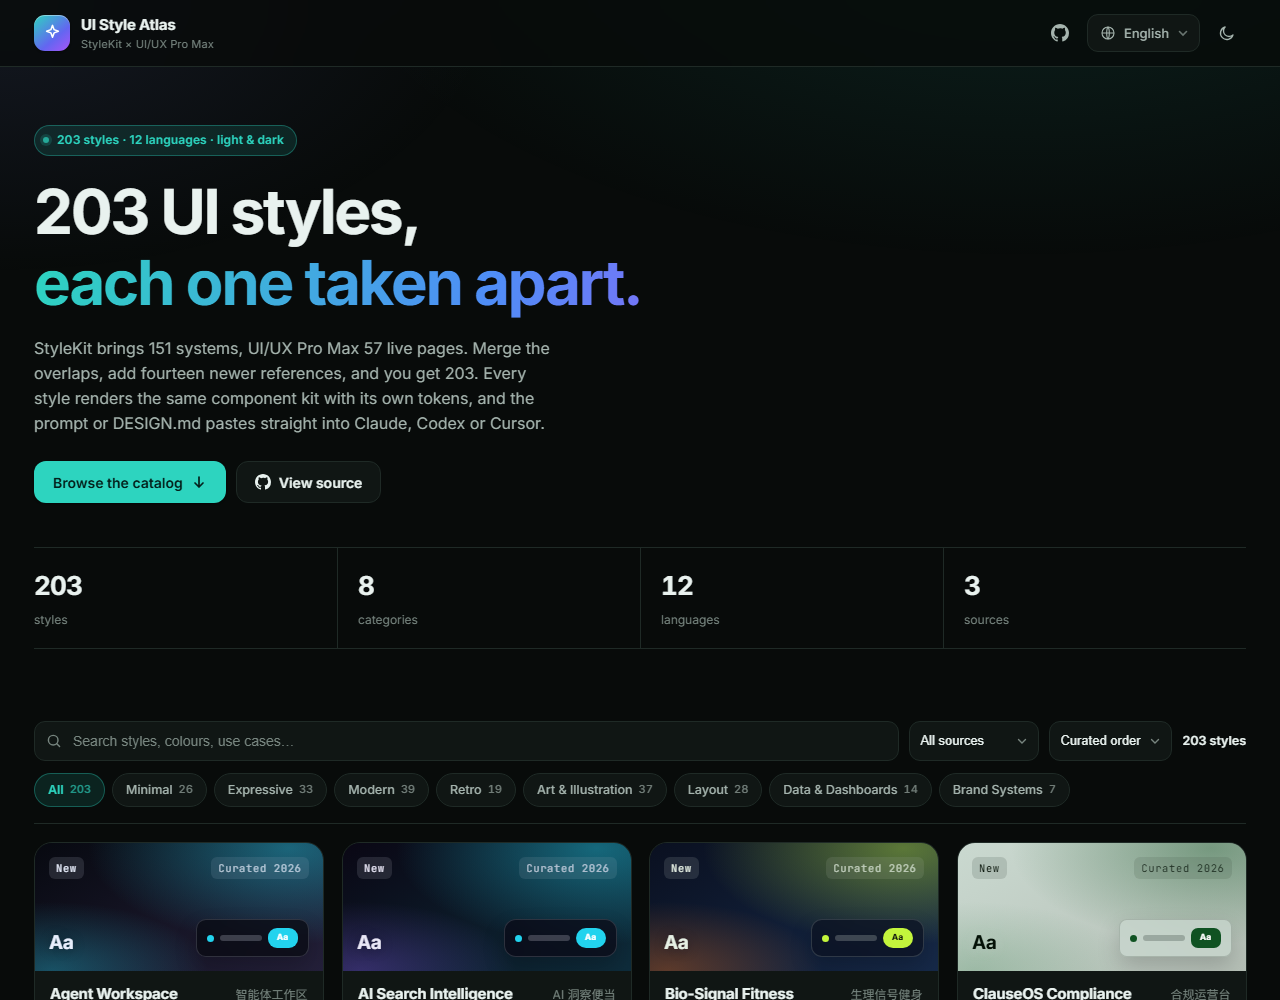
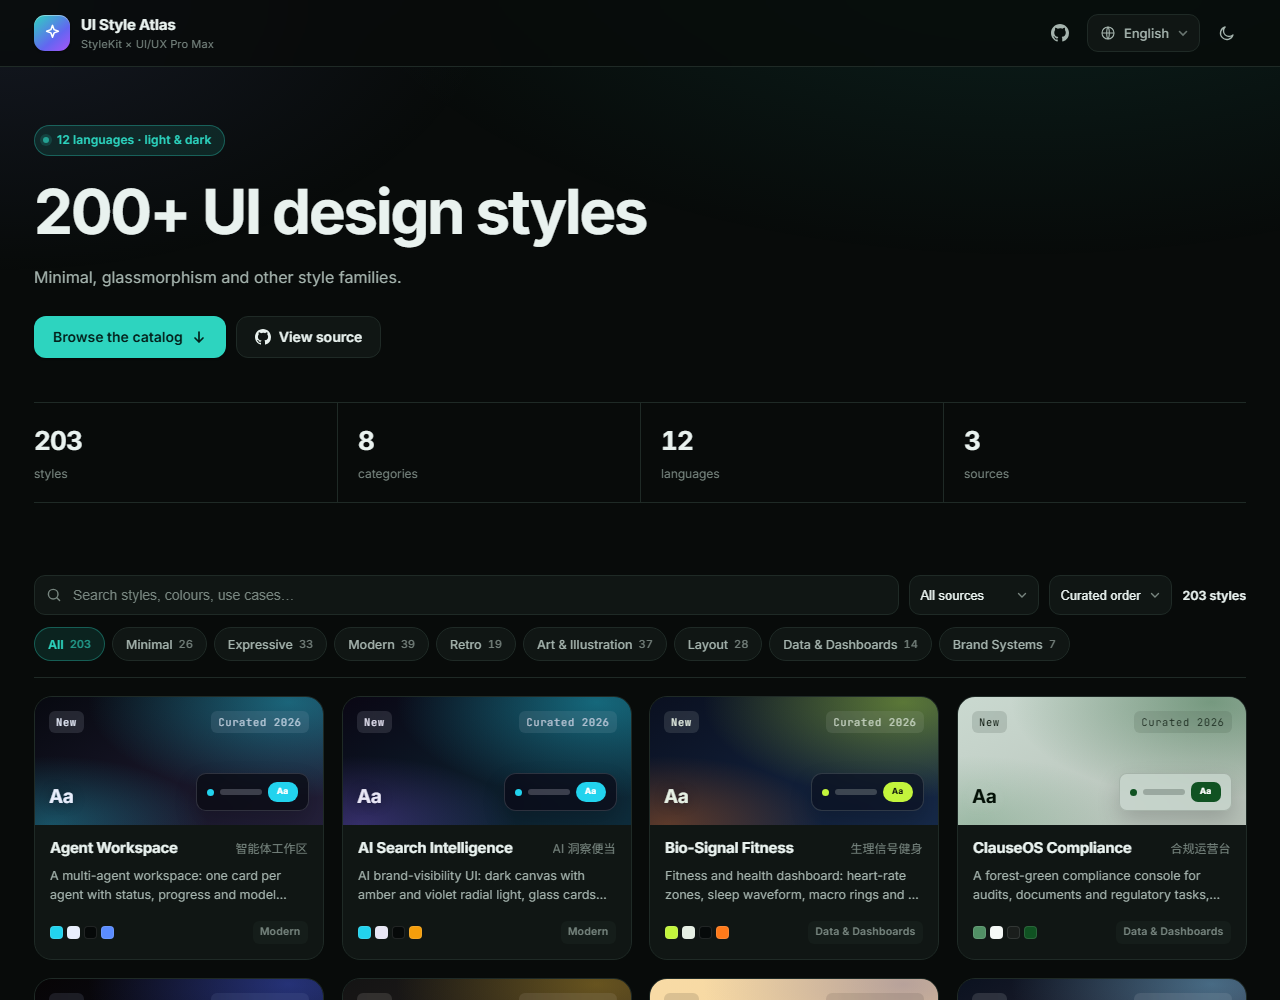
copy: 首屏换成一句话
- 标题 200+ UI 设计风格展示，导语 涵盖极简、玻璃拟态等多种类型的样式
- 删掉来源数字、令牌/提示词功能罗列与第二行渐变大字
- 顶部药丸去掉重复的 203 计数，只留 12 语言与明暗主题
- 12 种语言同步，移除 heroTitle2 键；README 首页截图重拍

diff --git a/assets/i18n.js b/assets/i18n.js
@@ -25,10 +25,9 @@
     themeLight: 'Light',
     themeDark: 'Dark',
     language: 'Language',
-    heroKicker: '203 styles · 12 languages · light & dark',
-    heroTitle1: '203 UI styles,',
-    heroTitle2: 'each one taken apart.',
-    heroLead: 'StyleKit brings 151 systems, UI/UX Pro Max 57 live pages. Merge the overlaps, add fourteen newer references, and you get 203. Every style renders the same component kit with its own tokens, and the prompt or DESIGN.md pastes straight into Claude, Codex or Cursor.',
+    heroKicker: '12 languages · light & dark',
+    heroTitle1: '200+ UI design styles',
+    heroLead: 'Minimal, glassmorphism and other style families.',
     ctaBrowse: 'Browse the catalog',
     ctaGithub: 'View source',
     statStyles: 'styles',
@@ -171,10 +170,9 @@
       themeLight: '白天',
       themeDark: '暗黑',
       language: '语言',
-      heroKicker: '203 套风格 · 12 种语言 · 明暗双主题',
-      heroTitle1: '203 套 UI 风格，',
-      heroTitle2: '配色、圆角、动效全摊开。',
-      heroLead: 'StyleKit 出了 151 套，UI/UX Pro Max 有 57 个现场页面。重名的合掉，再补 14 套新参考，一共 203 套。每套都用自己的令牌渲染同一组组件，提示词和 DESIGN.md 可以直接复制给 Claude、Codex 或 Cursor。',
+      heroKicker: '12 种语言 · 明暗双主题',
+      heroTitle1: '200+ UI 设计风格展示',
+      heroLead: '涵盖极简、玻璃拟态等多种类型的样式。',
       ctaBrowse: '浏览风格库',
       ctaGithub: '查看源码',
       statStyles: '套风格',
@@ -314,10 +312,9 @@
       themeLight: '亮色',
       themeDark: '暗色',
       language: '語言',
-      heroKicker: '203 套風格 · 12 種語言 · 明暗雙主題',
-      heroTitle1: '203 套 UI 風格，',
-      heroTitle2: '配色、圓角、動效全攤開。',
-      heroLead: 'StyleKit 出了 151 套，UI/UX Pro Max 有 57 個現場頁面。重名的合掉，再補 14 套新參考，一共 203 套。每套都用自己的權杖渲染同一組元件，提示詞和 DESIGN.md 可以直接複製給 Claude、Codex 或 Cursor。',
+      heroKicker: '12 種語言 · 明暗雙主題',
+      heroTitle1: '200+ UI 設計風格展示',
+      heroLead: '涵蓋極簡、玻璃擬態等多種類型的樣式。',
       ctaBrowse: '瀏覽風格庫',
       ctaGithub: '查看原始碼',
       statStyles: '套風格',
@@ -457,10 +454,9 @@
       themeLight: 'ライト',
       themeDark: 'ダーク',
       language: '言語',
-      heroKicker: '203 スタイル · 12 言語 · ライト＆ダーク',
-      heroTitle1: '203 種類の UI スタイル、',
-      heroTitle2: '色・角丸・動きまで見せる。',
-      heroLead: 'StyleKit の 151 種類と UI/UX Pro Max のライブデモ 57 本。重なるものをまとめ、新しい参考を 14 個足して 203 種類。どれも自分のトークンで同じ部品を描いていて、プロンプトや DESIGN.md は Claude / Codex / Cursor にそのまま貼れます。',
+      heroKicker: '12 言語 · ライト＆ダーク',
+      heroTitle1: '200+ の UI デザインスタイル',
+      heroLead: 'ミニマル、グラスモーフィズムなど複数のタイプを扱っています。',
       ctaBrowse: 'カタログを見る',
       ctaGithub: 'ソースを見る',
       statStyles: 'スタイル',
@@ -600,10 +596,9 @@
       themeLight: '라이트',
       themeDark: '다크',
       language: '언어',
-      heroKicker: '203개 스타일 · 12개 언어 · 라이트/다크',
-      heroTitle1: 'UI 스타일 203가지,',
-      heroTitle2: '색도 모서리도 움직임도 그대로.',
-      heroLead: 'StyleKit에서 151가지, UI/UX Pro Max에서 라이브 데모 57개. 겹치는 건 합치고 새 참고작 14개를 더해 203가지가 됐습니다. 각 스타일은 자기 토큰으로 같은 부품을 그려 두었고, 프롬프트와 DESIGN.md는 Claude, Codex, Cursor에 그대로 붙여넣으면 됩니다.',
+      heroKicker: '12개 언어 · 라이트/다크',
+      heroTitle1: '200+ UI 디자인 스타일',
+      heroLead: '미니멀, 글래스모피즘 등 여러 유형의 스타일을 담았습니다.',
       ctaBrowse: '카탈로그 보기',
       ctaGithub: '소스 보기',
       statStyles: '스타일',
@@ -743,10 +738,9 @@
       themeLight: 'Hell',
       themeDark: 'Dunkel',
       language: 'Sprache',
-      heroKicker: '203 Styles · 12 Sprachen · hell & dunkel',
-      heroTitle1: '203 UI-Stile,',
-      heroTitle2: 'Farben, Radien, Bewegung, alles sichtbar.',
-      heroLead: 'StyleKit steuert 151 Systeme bei, UI/UX Pro Max 57 Live-Demos. Doppelte zusammengelegt, vierzehn neuere Referenzen dazu — 203 insgesamt. Jeder Stil zeichnet dieselben Komponenten mit eigenen Tokens, Prompt und DESIGN.md lassen sich direkt in Claude, Codex oder Cursor einfügen.',
+      heroKicker: '12 Sprachen · hell & dunkel',
+      heroTitle1: '200+ UI-Designstile',
+      heroLead: 'Minimal, Glassmorphism und weitere Stilrichtungen.',
       ctaBrowse: 'Katalog ansehen',
       ctaGithub: 'Quellcode',
       statStyles: 'Styles',
@@ -886,10 +880,9 @@
       themeLight: 'Clair',
       themeDark: 'Sombre',
       language: 'Langue',
-      heroKicker: '203 styles · 12 langues · clair et sombre',
-      heroTitle1: '203 styles d’interface,',
-      heroTitle2: 'couleurs, rayons et animations compris.',
-      heroLead: 'StyleKit apporte 151 systèmes, UI/UX Pro Max 57 pages en direct. On fusionne les doublons, on ajoute quatorze références récentes : 203 au total. Chaque style dessine les mêmes composants avec ses propres jetons, et le prompt ou le DESIGN.md se colle tel quel dans Claude, Codex ou Cursor.',
+      heroKicker: '12 langues · clair et sombre',
+      heroTitle1: '200+ styles de design UI',
+      heroLead: 'Minimalisme, glassmorphism et d’autres familles de styles.',
       ctaBrowse: 'Parcourir le catalogue',
       ctaGithub: 'Voir le code',
       statStyles: 'styles',
@@ -1029,10 +1022,9 @@
       themeLight: 'Claro',
       themeDark: 'Oscuro',
       language: 'Idioma',
-      heroKicker: '203 estilos · 12 idiomas · claro y oscuro',
-      heroTitle1: '203 estilos de interfaz,',
-      heroTitle2: 'colores, radios y movimiento.',
-      heroLead: 'StyleKit aporta 151 sistemas y UI/UX Pro Max 57 páginas en vivo. Se juntan los duplicados, se suman catorce referencias nuevas: 203 en total. Cada estilo dibuja los mismos componentes con sus propios tokens, y el prompt o el DESIGN.md se pega tal cual en Claude, Codex o Cursor.',
+      heroKicker: '12 idiomas · claro y oscuro',
+      heroTitle1: '200+ estilos de diseño de UI',
+      heroLead: 'Minimalismo, glassmorphism y otras familias de estilos.',
       ctaBrowse: 'Explorar el catálogo',
       ctaGithub: 'Ver código',
       statStyles: 'estilos',
@@ -1172,10 +1164,9 @@
       themeLight: 'Claro',
       themeDark: 'Escuro',
       language: 'Idioma',
-      heroKicker: '203 estilos · 12 idiomas · claro e escuro',
-      heroTitle1: '203 estilos de interface,',
-      heroTitle2: 'cores, raios e movimento.',
-      heroLead: 'O StyleKit traz 151 sistemas e o UI/UX Pro Max, 57 páginas ao vivo. Juntando os duplicados e somando catorze referências novas, ficam 203. Cada estilo desenha os mesmos componentes com os próprios tokens, e o prompt ou o DESIGN.md cola direto no Claude, Codex ou Cursor.',
+      heroKicker: '12 idiomas · claro e escuro',
+      heroTitle1: '200+ estilos de design de UI',
+      heroLead: 'Minimalismo, glassmorphism e outras famílias de estilos.',
       ctaBrowse: 'Explorar o catálogo',
       ctaGithub: 'Ver código',
       statStyles: 'estilos',
@@ -1315,10 +1306,9 @@
       themeLight: 'Chiaro',
       themeDark: 'Scuro',
       language: 'Lingua',
-      heroKicker: '203 stili · 12 lingue · chiaro e scuro',
-      heroTitle1: '203 stili di interfaccia,',
-      heroTitle2: 'colori, raggi e movimento.',
-      heroLead: 'StyleKit porta 151 sistemi, UI/UX Pro Max 57 pagine dal vivo. Uniti i doppioni e aggiunte quattordici referenze nuove, sono 203. Ogni stile disegna gli stessi componenti con i propri token, e il prompt o il DESIGN.md si incolla così com’è in Claude, Codex o Cursor.',
+      heroKicker: '12 lingue · chiaro e scuro',
+      heroTitle1: '200+ stili di design UI',
+      heroLead: 'Minimalismo, glassmorphism e altre famiglie di stili.',
       ctaBrowse: 'Sfoglia il catalogo',
       ctaGithub: 'Vedi il codice',
       statStyles: 'stili',
@@ -1458,10 +1448,9 @@
       themeLight: 'فاتح',
       themeDark: 'داكن',
       language: 'اللغة',
-      heroKicker: '203 نمطًا · 12 لغة · فاتح وداكن',
-      heroTitle1: '203 نمط واجهة،',
-      heroTitle2: 'الألوان والزوايا والحركة أمامك.',
-      heroLead: 'يقدّم StyleKit عدد 151 نظامًا، ويقدّم UI/UX Pro Max عدد 57 صفحة حيّة. بعد دمج المكرّر وإضافة أربعة عشر مرجعًا جديدًا يصبح المجموع 203. كل نمط يرسم المكوّنات نفسها بخصائصه، ويمكن لصق الـ prompt أو DESIGN.md كما هو في Claude أو Codex أو Cursor.',
+      heroKicker: '12 لغة · فاتح وداكن',
+      heroTitle1: 'أكثر من 200 نمط تصميم واجهات',
+      heroLead: 'يشمل الأنماط البسيطة والزجاجية وغيرها من العائلات.',
       ctaBrowse: 'تصفّح الكتالوج',
       ctaGithub: 'عرض الشيفرة',
       statStyles: 'نمطًا',
@@ -1601,10 +1590,9 @@
       themeLight: 'Светлая',
       themeDark: 'Тёмная',
       language: 'Язык',
-      heroKicker: '203 стилей · 12 языков · светлая и тёмная темы',
-      heroTitle1: '203 стилей интерфейса,',
-      heroTitle2: 'цвета, радиусы и анимация.',
-      heroLead: 'StyleKit даёт 151 систему, UI/UX Pro Max — 57 живых страниц. Совпадающие объединили, добавили четырнадцать свежих референсов — вышло 203. Каждый стиль рисует те же компоненты своими токенами, а промпт или DESIGN.md вставляется как есть в Claude, Codex или Cursor.',
+      heroKicker: '12 языков · светлая и тёмная темы',
+      heroTitle1: '200+ стилей дизайна интерфейсов',
+      heroLead: 'Минимализм, глассморфизм и другие семейства стилей.',
       ctaBrowse: 'Открыть каталог',
       ctaGithub: 'Исходный код',
       statStyles: 'стилей',

diff --git a/index.html b/index.html
@@ -29,10 +29,7 @@
     <section class="hero">
       <div class="wrap">
         <span class="hero-kicker"><i class="dot"></i><span data-i18n="heroKicker"></span></span>
-        <h1>
-          <span data-i18n="heroTitle1"></span><br>
-          <span class="grad" data-i18n="heroTitle2"></span>
-        </h1>
+        <h1><span data-i18n="heroTitle1"></span></h1>
         <p class="hero-lead" data-i18n="heroLead"></p>
         <div class="hero-actions">
           <a class="btn btn-primary" href="#library">
